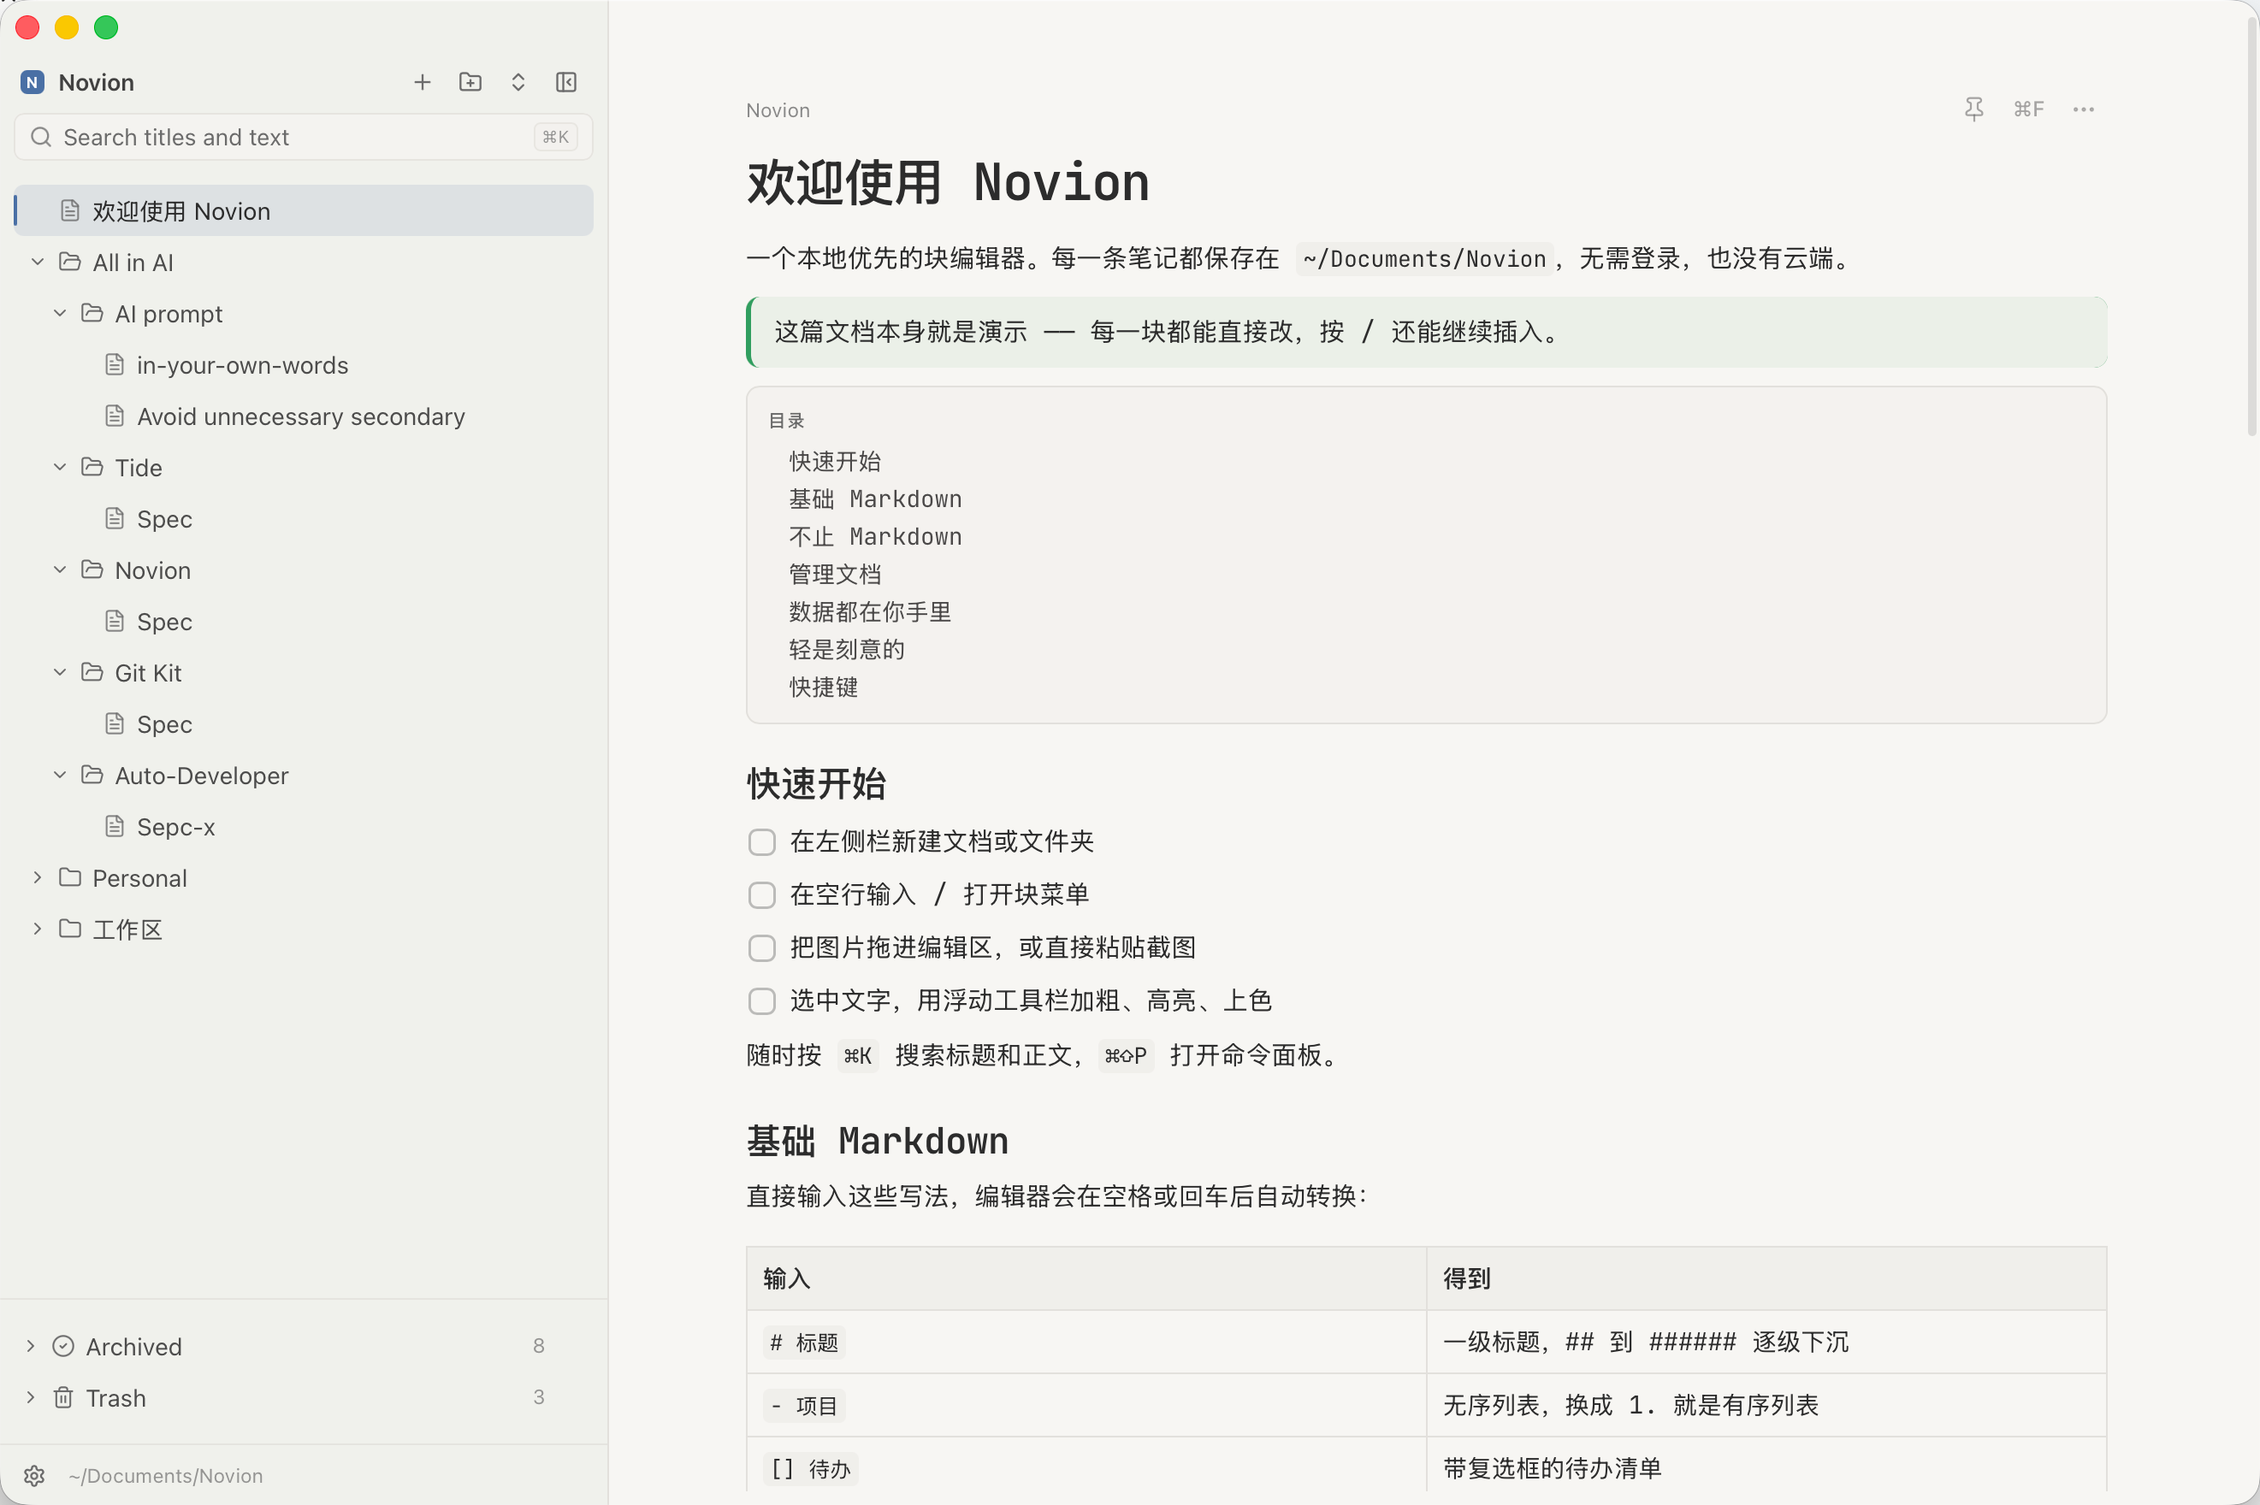
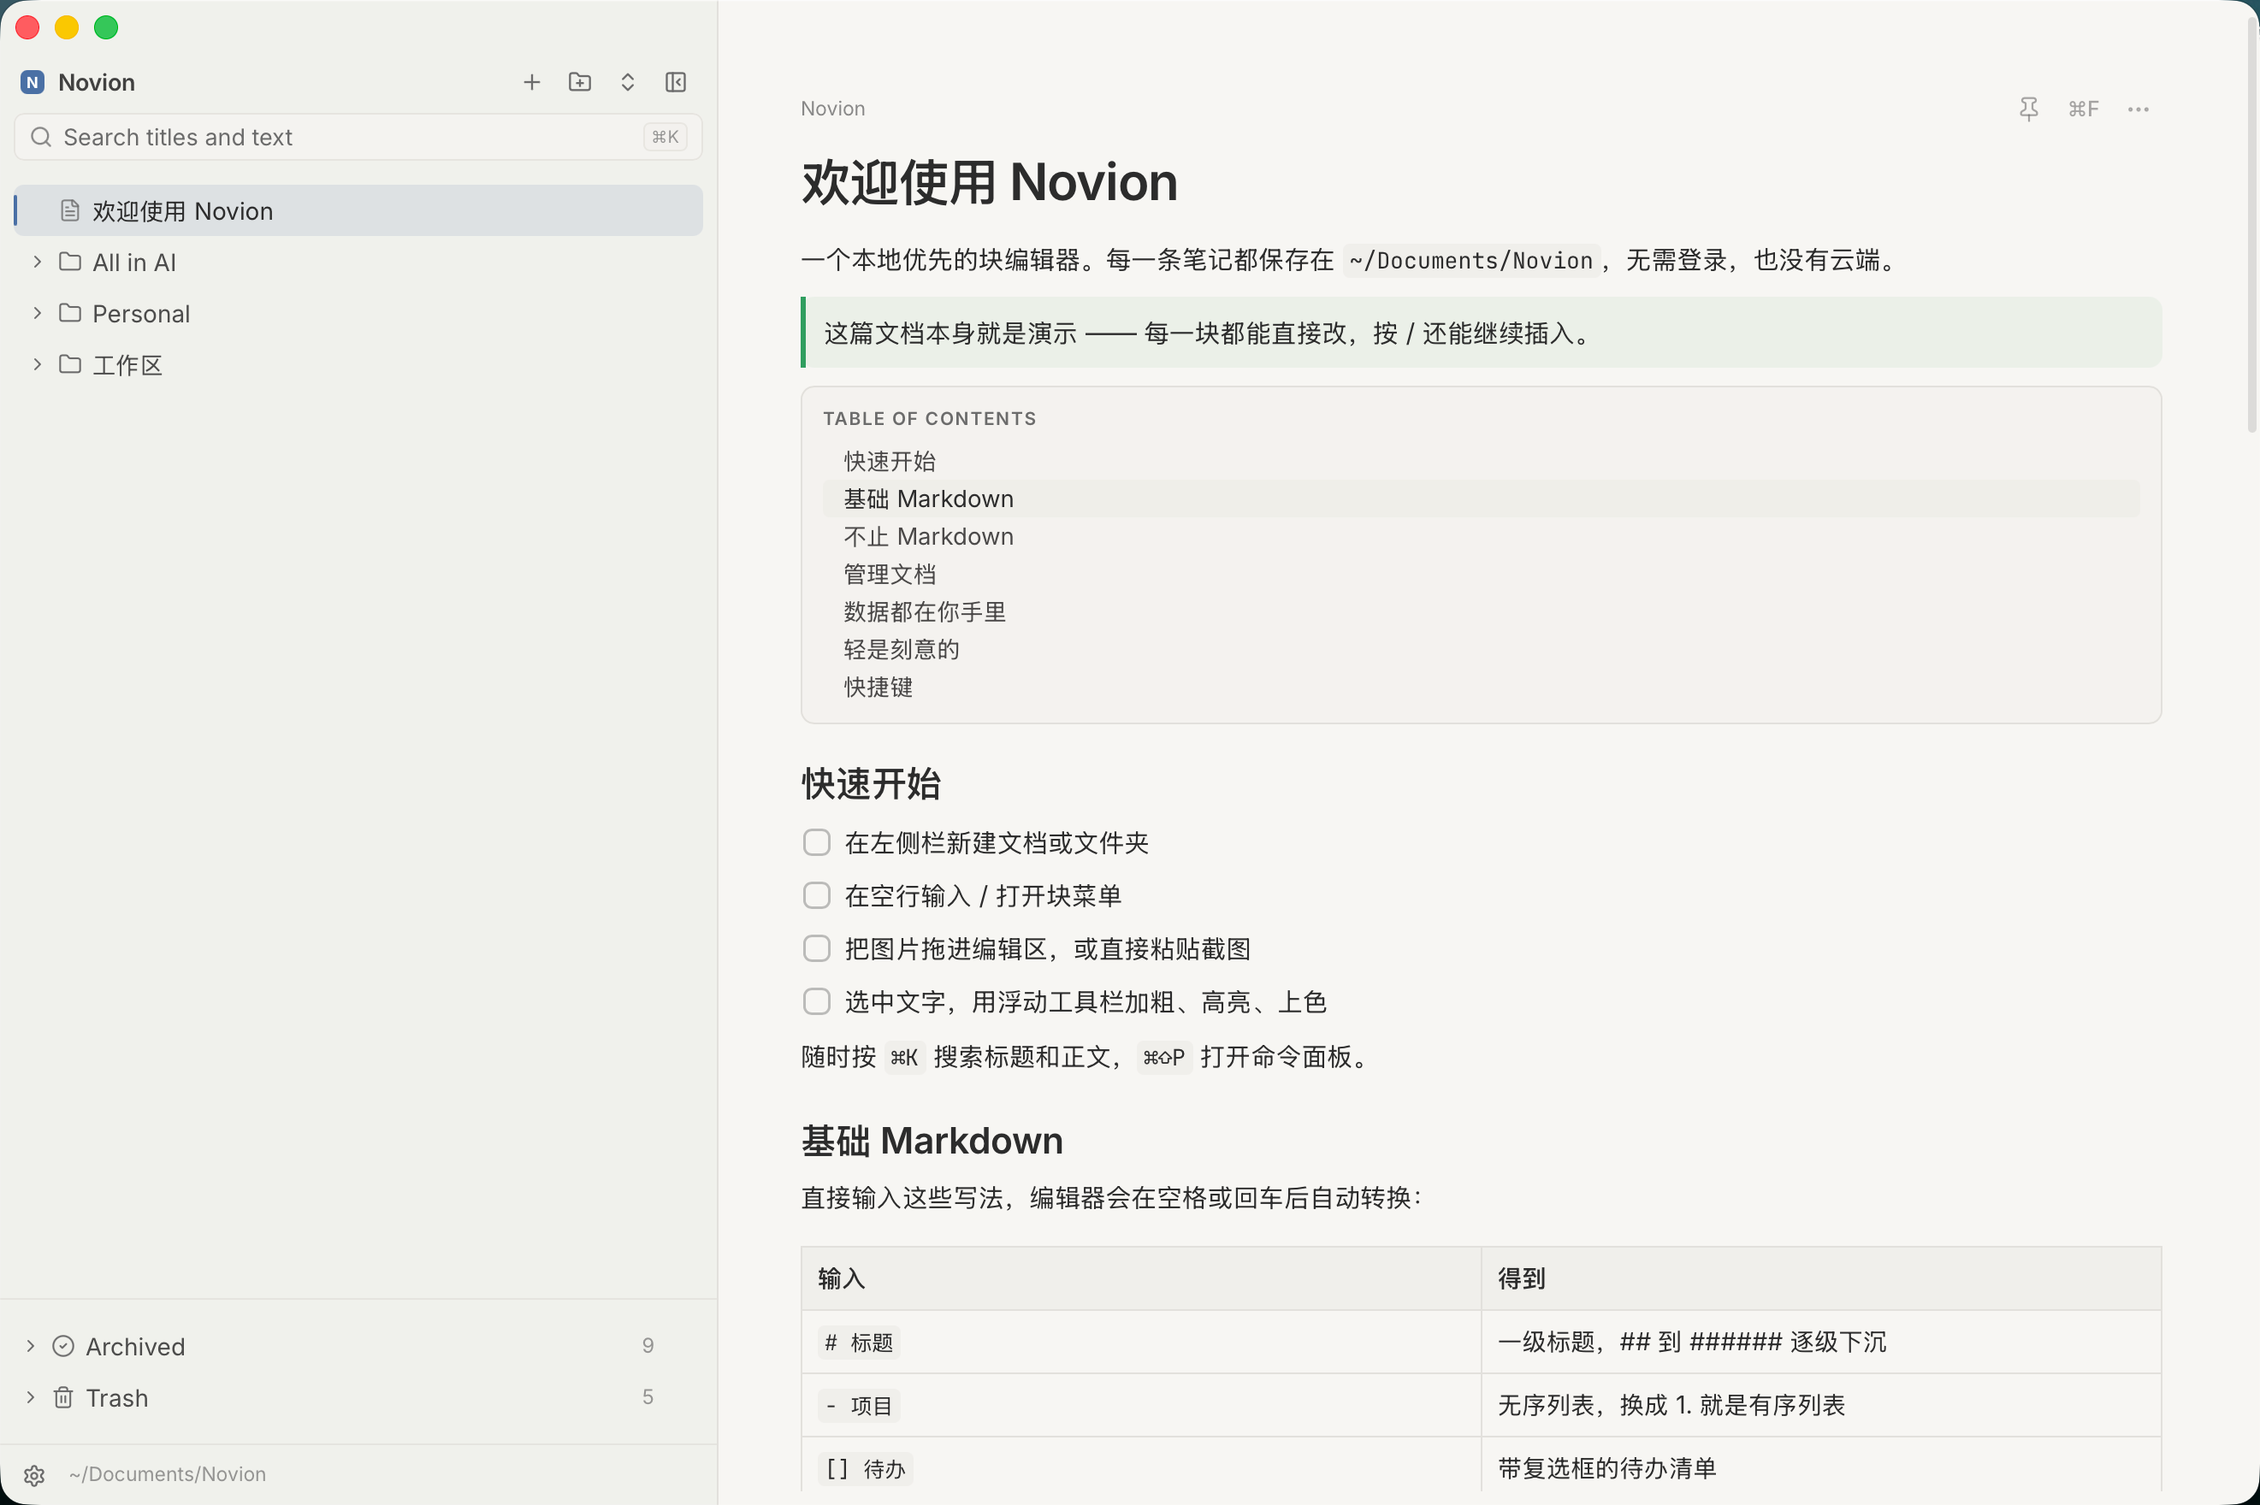
feat: remember collapsed folders and polish about/toast UI

diff --git a/src/lib/folder-state.test.ts b/src/lib/folder-state.test.ts
@@ -1,0 +1,99 @@
+import { describe, expect, it } from "vitest";
+import type { TreeNode } from "@/lib/tauri";
+import {
+  readCollapsedFolders,
+  saveCollapsedFolders,
+  type PreferenceStore,
+} from "./folder-state";
+
+function node(id: string, over: Partial<TreeNode> = {}): TreeNode {
+  return {
+    id,
+    kind: "folder",
+    name: id,
+    parentId: null,
+    order: 0,
+    createdAt: 0,
+    updatedAt: 0,
+    ...over,
+  };
+}
+
+/** Minimal localStorage stand-in: one bucket per key, like the real one. */
+function fakeStore(initial: Record<string, string> = {}) {
+  const data = new Map(Object.entries(initial));
+  const store: PreferenceStore & { data: Map<string, string> } = {
+    data,
+    getItem: (key) => data.get(key) ?? null,
+    setItem: (key, value) => {
+      data.set(key, value);
+    },
+    removeItem: (key) => {
+      data.delete(key);
+    },
+  };
+  return store;
+}
+
+const index = (...nodes: TreeNode[]): Record<string, TreeNode> =>
+  Object.fromEntries(nodes.map((n) => [n.id, n]));
+
+describe("collapsed folder memory", () => {
+  it("round-trips the closed subset of the tree", () => {
+    const store = fakeStore();
+    const nodes = index(node("f_a"), node("f_b"), node("f_c"));
+    saveCollapsedFolders(store, "/docs/Novion", nodes, { f_a: true, f_b: false, f_c: false });
+    expect([...readCollapsedFolders(store, "/docs/Novion", nodes)].sort()).toEqual(["f_b", "f_c"]);
+  });
+
+  it("keeps one entry per workspace root", () => {
+    const store = fakeStore();
+    const nodes = index(node("f_a"));
+    saveCollapsedFolders(store, "/one", nodes, { f_a: false });
+    expect(readCollapsedFolders(store, "/two", nodes).size).toBe(0);
+  });
+
+  it("clears the key when everything is open again", () => {
+    const store = fakeStore();
+    const nodes = index(node("f_a"));
+    saveCollapsedFolders(store, "/one", nodes, { f_a: false });
+    saveCollapsedFolders(store, "/one", nodes, { f_a: true });
+    expect(store.data.size).toBe(0);
+  });
+
+  it("drops ids of folders that are gone", () => {
+    const store = fakeStore();
+    const nodes = index(node("f_a"));
+    saveCollapsedFolders(store, "/one", nodes, { f_a: false, f_deleted: false });
+    expect([...readCollapsedFolders(store, "/one", nodes)]).toEqual(["f_a"]);
+  });
+
+  it("never remembers the system groups", () => {
+    const store = fakeStore();
+    const nodes = index(node("f_a"), node("f_trash", { builtin: "trash", kind: "folder" }));
+    saveCollapsedFolders(store, "/one", nodes, { f_a: true, f_trash: false });
+    expect(readCollapsedFolders(store, "/one", nodes).size).toBe(0);
+  });
+
+  it("treats a corrupt or foreign value as 'nothing closed'", () => {
+    const nodes = index(node("f_a"));
+    for (const raw of ["{not json", '{"f_a":false}', "null", "[]"]) {
+      const store = fakeStore({ "novion:collapsed-folders:/one": raw });
+      expect(readCollapsedFolders(store, "/one", nodes).size).toBe(0);
+    }
+  });
+
+  it("survives a store that refuses to write", () => {
+    const nodes = index(node("f_a"));
+    const store: PreferenceStore = {
+      getItem: () => null,
+      setItem: () => {
+        throw new Error("QuotaExceededError");
+      },
+      removeItem: () => {
+        throw new Error("QuotaExceededError");
+      },
+    };
+    expect(() => saveCollapsedFolders(store, "/one", nodes, { f_a: false })).not.toThrow();
+  });
+});

diff --git a/src/store/workspace.ts b/src/store/workspace.ts
@@ -7,6 +7,7 @@ import {
   type Workspace,
 } from "@/lib/tauri";
 import { canHostChildren } from "@/lib/tree-targets";
+import { readCollapsedFolders, saveCollapsedFolders } from "@/lib/folder-state";
 import { useUi } from "@/store/ui";
 
 export type { NodeKind, TreeNode };
@@ -149,6 +150,23 @@ function indexWorkspace(
 }
 
 /**
+ * Open state for a tree that was just loaded (or re-pointed at another root):
+ * every folder open, except the ones the user closed last time in this
+ * workspace. Folders the app has never shown start open, so new content is
+ * never hidden behind a remembered state that never mentioned it.
+ */
+function expandedFor(
+  rootPath: string,
+  nodes: Record<string, TreeNode>,
+  ws: Workspace,
+): Record<string, boolean> {
+  const closed = readCollapsedFolders(localStorage, rootPath, nodes);
+  const expanded: Record<string, boolean> = {};
+  for (const n of ws.nodes) if (n.kind === "folder") expanded[n.id] = !closed.has(n.id);
+  return expanded;
+}
+
+/**
  * Guards the create actions against a doubled click: the row is only appended
  * once the backend answered, so two rapid invocations both looked "unhandled"
  * and produced two documents.
@@ -179,10 +197,11 @@ export const useWorkspace = create<WorkspaceState>((set, get) => ({
   init: async () => {
     try {
       set({ busy: true });
-      const [root, ws] = await Promise.all([api.root(), api.ensure(useUi.getState().locale)]);
+      // no language on purpose: the first-run welcome note is English, not a
+      // translation of whatever interface language this profile uses
+      const [root, ws] = await Promise.all([api.root(), api.ensure()]);
       const { nodes, children } = indexWorkspace(ws, {});
-      const expanded: Record<string, boolean> = {};
-      for (const n of ws.nodes) if (n.kind === "folder") expanded[n.id] = true;
+      const expanded = expandedFor(root, nodes, ws);
       const firstDoc = ws.nodes.find(
         (n) =>
           n.kind === "doc" &&
@@ -219,8 +238,7 @@ export const useWorkspace = create<WorkspaceState>((set, get) => ({
 
   adopt: (ws, root) => {
     const { nodes, children } = indexWorkspace(ws, {});
-    const expanded: Record<string, boolean> = {};
-    for (const n of ws.nodes) if (n.kind === "folder") expanded[n.id] = true;
+    const expanded = expandedFor(root, nodes, ws);
     const firstDoc = ws.nodes.find(
       (n) =>
         n.kind === "doc" &&
@@ -490,6 +508,19 @@ export const useWorkspace = create<WorkspaceState>((set, get) => ({
     }
   },
 }));
+
+/**
+ * Folder open/closed state is a view preference, so it is saved on every change
+ * rather than on quit: localStorage writes a few bytes, and a toggle right
+ * before closing the app must not be lost to a debounce timer. Anything before
+ * the first successful load is ignored — there would be no tree to prune the
+ * stored ids against yet.
+ */
+useWorkspace.subscribe((state, prev) => {
+  if (state.expanded === prev.expanded) return;
+  if (!state.ready || !state.rootPath) return;
+  saveCollapsedFolders(localStorage, state.rootPath, state.nodes, state.expanded);
+});
 
 export const selectChildren = (parentId: string | null) => (s: WorkspaceState) =>
   s.children[parentId ?? ROOT] ?? [];

diff --git a/src/lib/folder-state.ts b/src/lib/folder-state.ts
@@ -1,0 +1,75 @@
+import type { TreeNode } from "@/lib/tauri";
+
+/**
+ * Which folders the sidebar had closed, remembered per workspace root.
+ *
+ * Only the *closed* folders are written down, because a folder is open unless
+ * the user closed it: anything the app has never seen (a folder made a minute
+ * ago, a Notion sync, a tree pointed at another storage folder) then opens by
+ * itself instead of starting hidden behind a default nobody chose.
+ *
+ * The state lives in localStorage next to the other view preferences (sidebar
+ * width, outline toggle): `workspace.json` stays a description of the content
+ * and is never rewritten just because someone folded a folder away.
+ */
+const KEY_PREFIX = "novion:collapsed-folders:";
+
+/** The slice of `Storage` we need — tests pass a plain object. */
+export type PreferenceStore = Pick<Storage, "getItem" | "setItem" | "removeItem">;
+
+const keyFor = (rootPath: string) => KEY_PREFIX + (rootPath || "default");
+
+/** User folders only: the system groups (已归档 / 回收站) cannot be toggled. */
+function userFolderIds(nodes: Record<string, TreeNode>): string[] {
+  return Object.values(nodes)
+    .filter((n) => n.kind === "folder" && !n.builtin)
+    .map((n) => n.id);
+}
+
+/**
+ * Closed folder ids for `rootPath`. Ids that no longer name a user folder are
+ * dropped on the way out, so a tree that has been reorganised for months cannot
+ * leave a growing list of dead ids behind.
+ */
+export function readCollapsedFolders(
+  store: PreferenceStore,
+  rootPath: string,
+  nodes: Record<string, TreeNode>,
+): Set<string> {
+  let raw: string | null;
+  try {
+    raw = store.getItem(keyFor(rootPath));
+  } catch {
+    return new Set();
+  }
+  if (!raw) return new Set();
+
+  let parsed: unknown;
+  try {
+    parsed = JSON.parse(raw);
+  } catch {
+    return new Set();
+  }
+  if (!Array.isArray(parsed)) return new Set();
+
+  const folders = new Set(userFolderIds(nodes));
+  return new Set(
+    parsed.filter((id): id is string => typeof id === "string" && folders.has(id)),
+  );
+}
+
+/** Writes the closed subset of `expanded`; a fully open tree clears the key. */
+export function saveCollapsedFolders(
+  store: PreferenceStore,
+  rootPath: string,
+  nodes: Record<string, TreeNode>,
+  expanded: Record<string, boolean>,
+): void {
+  const collapsed = userFolderIds(nodes).filter((id) => !expanded[id]);
+  try {
+    if (collapsed.length === 0) store.removeItem(keyFor(rootPath));
+    else store.setItem(keyFor(rootPath), JSON.stringify(collapsed));
+  } catch {
+    // A full or unavailable localStorage must never break the sidebar.
+  }
+}

diff --git a/src/components/settings/AboutSection.tsx b/src/components/settings/AboutSection.tsx
@@ -7,6 +7,9 @@ import { useUpdate } from "@/store/update";
 import { useUi } from "@/store/ui";
 import { useT } from "@/i18n";
 
+/** Where the name plate points. Kept here so the URL is stated once. */
+const PROJECT_URL = "https://github.com/ilemon18/novion";
+
 export function AboutSection() {
   const t = useT();
   const notify = useUi((s) => s.notify);
@@ -59,7 +62,20 @@ export function AboutSection() {
         height={72}
         className="size-[72px] rounded-[18px] shadow-sm"
       />
-      <div className="mt-3 text-[15px] font-semibold tracking-[-0.01em]">Novion</div>
+      {/* The name is the project link: it opens the repository in the system
+          browser, not inside the webview. */}
+      <button
+        type="button"
+        onClick={() =>
+          void api
+            .openUrl(PROJECT_URL)
+            .catch((err) => notify(errorMessage(err), { tone: "error", timeout: 6000 }))
+        }
+        title={PROJECT_URL}
+        className="mt-3 -mx-1.5 rounded-md px-1.5 text-[15px] font-semibold tracking-[-0.01em] outline-none transition-colors hover:text-brand focus-visible:ring-2 focus-visible:ring-ring/40"
+      >
+        Novion
+      </button>
       {version ? (
         <div className="mt-1 text-[11.5px] tabular-nums text-muted-foreground">
           {t("Version {version}", { version })}

diff --git a/src/App.tsx b/src/App.tsx
@@ -255,9 +255,12 @@ export default function App() {
 
         {/* All transient messages share one top-centred stack: a notice and an
             error can then never overlap, every row is vertically centred, and
-            nothing covers the bottom of the document while it is being read. */}
+            nothing covers the bottom of the document while it is being read.
+            The stack sits above the dialog layer (portalled, z-50) on purpose:
+            a message about what just happened has to stay readable while the
+            settings drawer is open, so it gets its own layer at z-[60]. */}
         {(notice || error) && (
-          <div className="pointer-events-none fixed inset-x-0 top-3 z-50 flex flex-col items-center gap-2 px-4">
+          <div className="pointer-events-none fixed inset-x-0 top-3 z-[60] flex flex-col items-center gap-2 px-4">
             {notice && (
               <div
                 key={notice.id}

diff --git a/src/index.css b/src/index.css
@@ -876,8 +876,24 @@ html[data-platform="windows"] .scroll-pane {
   margin: 0.5em 0;
   padding: 0.55em 0.9em;
   border-radius: 8px;
-  border-left: 3px solid var(--callout-accent);
   background: color-mix(in srgb, var(--callout-accent) 8%, transparent);
+}
+/*
+ * The accent on the left is a drawn bar, not a `border-left`: a left border
+ * inherits the block's corner radius and bends at both ends. The bar is a
+ * straight rule of constant thickness, so the tinted panel can stay rounded
+ * without curving the accent.
+ */
+.callout-block::before {
+  content: "";
+  position: absolute;
+  top: 0;
+  bottom: 0;
+  left: 0;
+  width: 3px;
+  border-radius: 0;
+  background: var(--callout-accent);
+  pointer-events: none;
 }
 .callout-block[data-kind="tip"] {
   --callout-accent: var(--callout-tip);

diff --git a/src/lib/tauri.ts b/src/lib/tauri.ts
@@ -258,7 +258,11 @@ export interface DocVersionBody {
 /** Thin typed wrapper around the Rust command surface. */
 export const api = {
   root: () => invoke<string>("get_workspace_root"),
-  /** `language` only matters on the very first run (it writes the welcome note). */
+  /**
+   * `language` only matters on the very first run, where it picks the welcome
+   * note. No caller passes one: that note is English for everyone, so the app
+   * opens the same way whatever the interface language happens to be.
+   */
   ensure: (language?: string) => invoke<Workspace>("ensure_workspace", { language }),
   createFolder: (parentId: string | null, name: string) =>
     invoke<CreatedFolder>("create_folder", { parentId, name }),

diff --git a/src-tauri/src/workspace.rs b/src-tauri/src/workspace.rs
@@ -313,7 +313,10 @@ pub async fn ensure_workspace<R: Runtime>(
     if !exists {
         let now = now_ms();
         let doc_id = format!("d_{}", short_id());
-        // the first-run note follows the interface language chosen at boot
+        // the first-run note is English: the frontend deliberately passes no
+        // language, so a new setup reads the same in every locale. The
+        // translated welcome documents stay available for a caller that asks
+        // for its own language explicitly.
         let title = welcome_title(language.as_deref().unwrap_or("en"));
         let mut ws = Workspace {
             version: 1,
